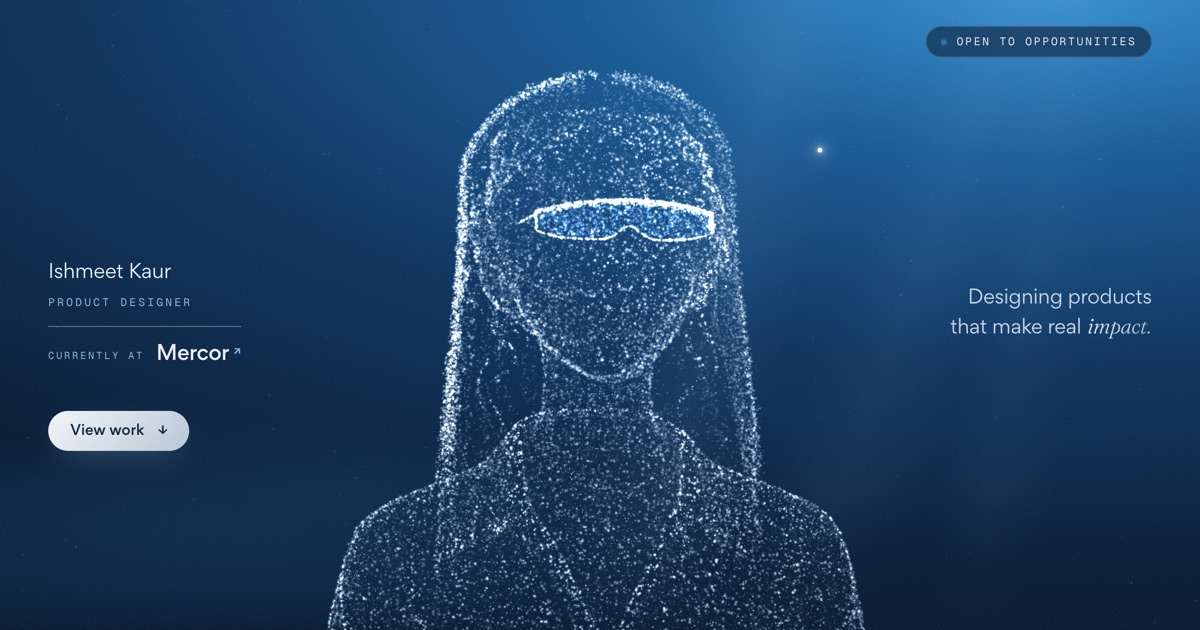
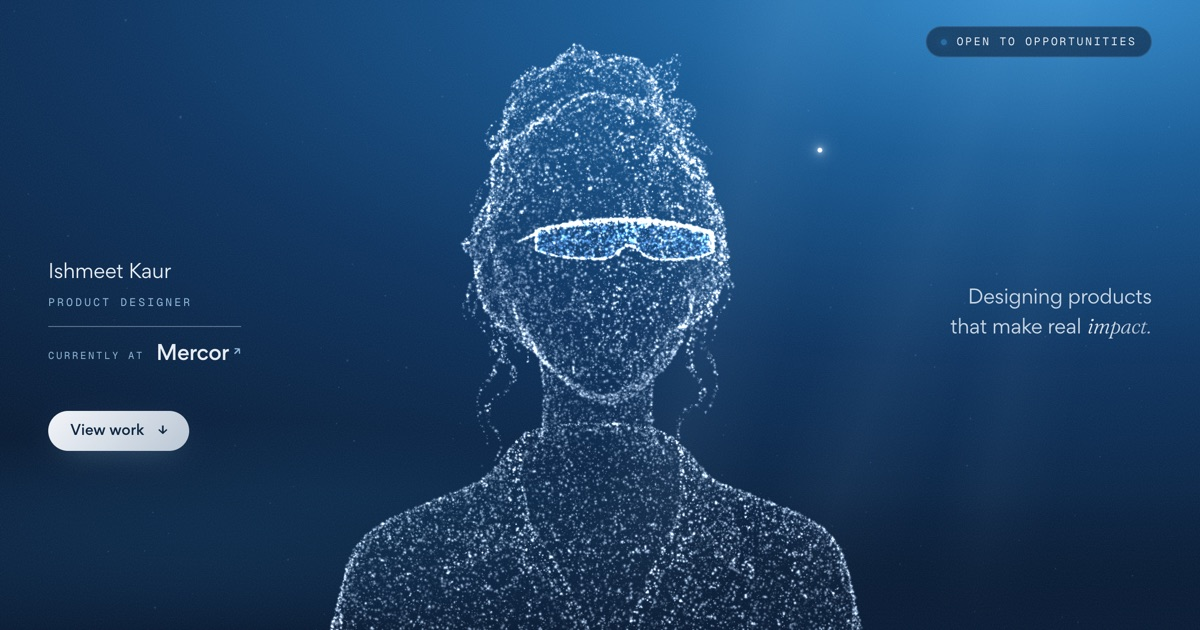
Restore the original bun in the hero

Changed region(s): [[0.2775, 0.0603, 0.74, 1.0]]

diff --git a/src/hero/buildDots.js b/src/hero/buildDots.js
@@ -38,18 +38,14 @@ export function buildDots(gltf) {
   // ── Visor (parts 3 + 4) ──────────────────────────────────
   const visor = buildVisor(cP, cN);
 
-  // ── Open hair (replaces the model's bun) ─────────────────
-  // Drop every candidate above the crown, then grow loose strands from a scalp dome.
-  const keep = [];
-  for (let i = 0; i < CANDIDATES; i++) if (cP[i * 3 + 1] <= HAIR.cutY) keep.push(i);
-  const kP = new Float32Array(keep.length * 3);
-  const kN = new Float32Array(keep.length * 3);
-  keep.forEach((c, j) => { kP.set(cP.subarray(c * 3, c * 3 + 3), j * 3); kN.set(cN.subarray(c * 3, c * 3 + 3), j * 3); });
-  const hair = buildHair(HAIR.dots);
+  // ── Leaves (part 2) ──────────────────────────────────────
+  // The model is a single continuous mesh with no separable leaf geometry,
+  // so no dots are tagged as leaves; the glint sweeps the visor only.
+  const leafCount = 0;
 
   // ── Even density bust dots (part 1) ──────────────────────
-  const need = TOTAL_DOTS - visor.count - hair.count;
-  const bustIdx = voxelThin(kP, need);
+  const need = TOTAL_DOTS - visor.count - leafCount;
+  const bustIdx = voxelThin(cP, need);
 
   // ── Assemble final arrays (model units first) ────────────
   const N = TOTAL_DOTS;
@@ -64,20 +60,12 @@ export function buildDots(gltf) {
   }
   for (let j = 0; j < bustIdx.length; j++, k++) {
     const c = bustIdx[j];
-    mPos[k * 3] = kP[c * 3]; mPos[k * 3 + 1] = kP[c * 3 + 1]; mPos[k * 3 + 2] = kP[c * 3 + 2];
-    nor[k * 3] = kN[c * 3]; nor[k * 3 + 1] = kN[c * 3 + 1]; nor[k * 3 + 2] = kN[c * 3 + 2];
-    part[k] = PART.BUST;
-  }
-  const hairStart = k;
-  for (let i = 0; i < hair.count; i++, k++) {
-    mPos.set(hair.pos.subarray(i * 3, i * 3 + 3), k * 3);
-    nor.set(hair.nor.subarray(i * 3, i * 3 + 3), k * 3);
+    mPos[k * 3] = cP[c * 3]; mPos[k * 3 + 1] = cP[c * 3 + 1]; mPos[k * 3 + 2] = cP[c * 3 + 2];
+    nor[k * 3] = cN[c * 3]; nor[k * 3 + 1] = cN[c * 3 + 1]; nor[k * 3 + 2] = cN[c * 3 + 2];
     part[k] = PART.BUST;
   }
 
-  const shade = computeShade(mPos, nor, kP, N);
-  // Strands have no mesh around them: give them a soft, slightly bright shade instead.
-  for (let i = hairStart; i < N; i++) { shade[i * 2] = 0.05 + 0.3 * rand(); shade[i * 2 + 1] = 0.22 + 0.2 * rand(); }
+  const shade = computeShade(mPos, nor, cP, N);
 
   // ── World placement, randoms, glint bounds ───────────────
   const pos = new Float32Array(N * 3);
@@ -86,7 +74,7 @@ export function buildDots(gltf) {
   for (let i = 0; i < N; i++) {
     const x = mPos[i * 3] * 2.8;
     pos[i * 3] = x;
-    pos[i * 3 + 1] = mPos[i * 3 + 1] * 2.8 - 0.55; // sits a little higher now the bun is gone
+    pos[i * 3 + 1] = mPos[i * 3 + 1] * 2.8 - 0.68;
     pos[i * 3 + 2] = mPos[i * 3 + 2] * 2.8;
     aRand[i] = rand();
     if (part[i] > 1.5) { if (x < minX) minX = x; if (x > maxX) maxX = x; }
@@ -94,62 +82,6 @@ export function buildDots(gltf) {
   if (!isFinite(minX)) { minX = -0.6; maxX = 0.6; }
 
   return { count: N, position: pos, normal: nor, aRand, aShade: shade, aPart: part, glintMin: minX, glintMax: maxX };
-}
-
-// ─────────────────────────────────────────────────────────────
-// Scalp dome fitted to the model's head (model units; +z is the face).
-const HAIR = { cutY: 0.62, dots: 17000, c: [0, 0.5, -0.01], r: [0.315, 0.27, 0.41] };
-
-function buildHair(total) {
-  const [cx, cy, cz] = HAIR.c, [rx, ry, rz] = HAIR.r;
-  const pos = new Float32Array(total * 3), nor = new Float32Array(total * 3);
-  const LOCKS = 64, PER = 5;
-  const perStrand = Math.ceil(total / (LOCKS * PER));
-  const smooth = (t) => t * t * (3 - 2 * t);
-  let k = 0;
-
-  for (let l = 0; l < LOCKS && k < total; l++) {
-    // Lock root: spread all round the head; a centre parting sends front locks to the sides.
-    const side = l % 2 ? 1 : -1;
-    const th0 = side * (0.12 + (Math.PI - 0.12) * ((l >> 1) + rand() * 0.8) / (LOCKS / 2));
-    const front = Math.cos(th0);                        // 1 = forehead, -1 = back
-    const thEnd = front > 0.2 ? side * (1.25 + 0.35 * rand() + (1 - front) * 0.4) : th0 + side * 0.15 * rand();
-    const a0 = 0.05 + rand() * 0.35;                     // root distance from the crown
-    const tipY = (front > 0.2 ? -0.18 : -0.42) - rand() * 0.16;
-    const wave = 0.018 + rand() * 0.026, freq = 6 + rand() * 6, ph = rand() * 6.28;
-    const flare = 0.08 + rand() * 0.1;
-
-    for (let s = 0; s < PER && k < total; s++) {
-      const dth = (rand() - 0.5) * 0.12, da = (rand() - 0.5) * 0.08, sp = 1.03 + rand() * 0.04;
-      const sph = ph + rand() * 0.8;
-      const point = (t) => {
-        // t ∈ [0, 0.32]: over the dome, crown → ear level. t ∈ (0.32, 1]: falling loose.
-        if (t <= 0.32) {
-          const u = t / 0.32;
-          const a = a0 + da + (Math.PI / 2 - a0) * u;
-          const th = th0 + dth + (thEnd - th0) * smooth(u);
-          const sx = Math.sin(a) * Math.sin(th), sy = Math.cos(a), sz = Math.sin(a) * Math.cos(th);
-          const g = sp * (1 + 0.1 * smooth(u));
-          return [cx + rx * g * sx, cy + ry * g * sy, cz + rz * g * sz, sx, sy * 0.6, sz];
-        }
-        const u = (t - 0.32) / 0.68;
-        const th = thEnd + dth;
-        const g = sp * 1.1 + flare * smooth(u) + 0.04 * Math.max(0, (0.1 - (cy - (cy - tipY) * u)) * 2);
-        const w = Math.sin(u * freq + sph) * wave * smooth(Math.min(1, u * 3));
-        const bx = Math.sin(th), bz = Math.cos(th);
-        const x = cx + rx * g * bx + bz * w, z = cz + rz * g * bz - bx * w;
-        return [x, cy - (cy - tipY) * u, z, bx, 0.05, bz];
-      };
-      for (let i = 0; i < perStrand && k < total; i++, k++) {
-        const t = Math.pow(rand(), 0.85);
-        const [x, y, z, nx, ny, nz] = point(t);
-        const l2 = Math.hypot(nx, ny, nz) || 1;
-        pos[k * 3] = x + jit(0.004); pos[k * 3 + 1] = y + jit(0.004); pos[k * 3 + 2] = z + jit(0.004);
-        nor[k * 3] = nx / l2; nor[k * 3 + 1] = ny / l2; nor[k * 3 + 2] = nz / l2;
-      }
-    }
-  }
-  return { count: k, pos: pos.subarray(0, k * 3), nor: nor.subarray(0, k * 3) };
 }
 
 // ─────────────────────────────────────────────────────────────
